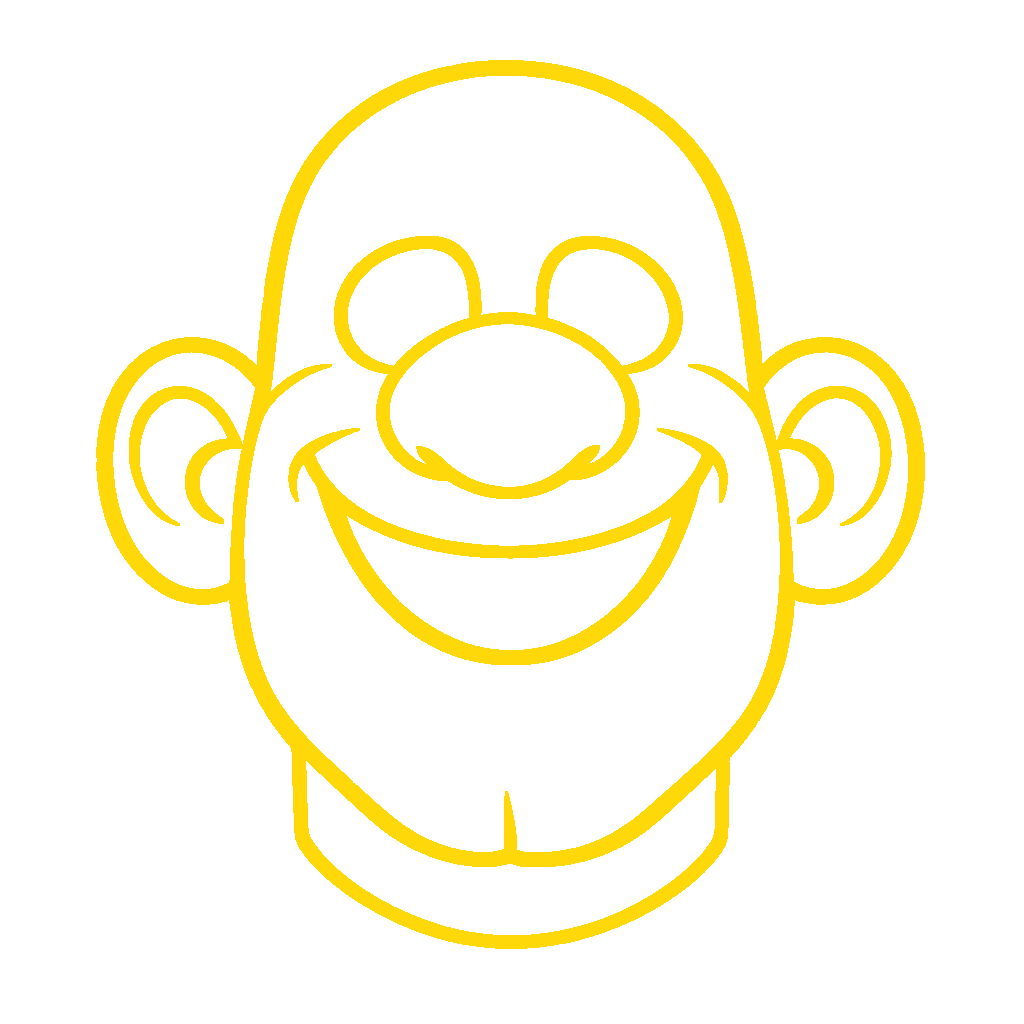
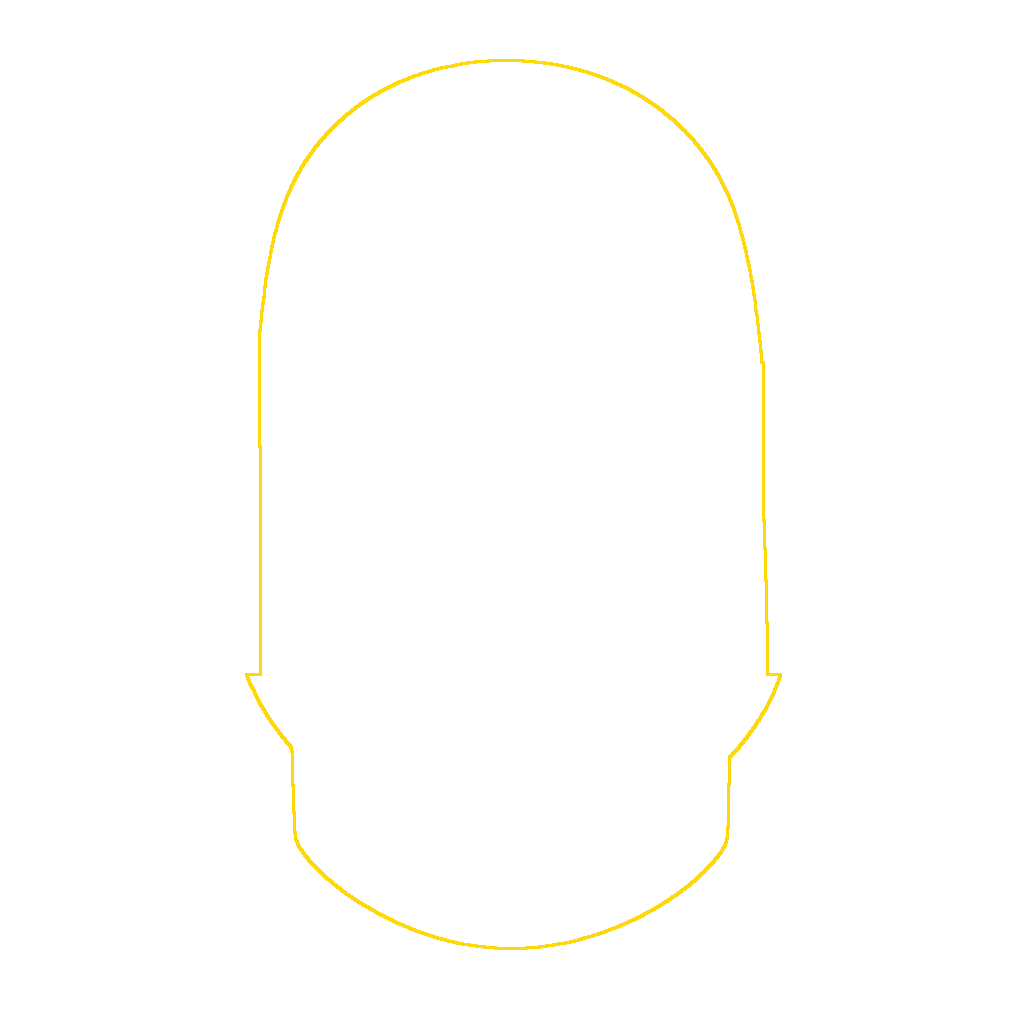
Strip ears, eyes, and nose from the yellow face guide
Keep only the outer head silhouette for selfie/upload alignment.

diff --git a/frontend/src/face-capture/FaceCaptureView.tsx b/frontend/src/face-capture/FaceCaptureView.tsx
@@ -251,7 +251,7 @@ export function FaceCaptureView({ onClose }: Props) {
         <div className="face-capture-titles">
           <h1 className="face-capture-title">Fit your face</h1>
           <p className="face-capture-sub">
-            Line up your head, eyes, and nose with the yellow wireframe — then save.
+            Line up your head inside the yellow outline — then save.
           </p>
         </div>
       </header>
@@ -316,7 +316,7 @@ export function FaceCaptureView({ onClose }: Props) {
                   onChange={(e) => setScale(Number(e.target.value))}
                 />
               </label>
-              <p className="face-capture-hint">Drag the photo to move it. Zoom until eyes and nose sit in the marks.</p>
+              <p className="face-capture-hint">Drag the photo to move it. Zoom until your head fills the outline.</p>
             </div>
           )}
 

diff --git a/frontend/src/OptionsPanel.tsx b/frontend/src/OptionsPanel.tsx
@@ -51,8 +51,8 @@ export function OptionsPanel({ open, onClose }: OptionsPanelProps) {
         <section className="options-section">
           <h3 className="options-section-title">Fit your face</h3>
           <p className="options-section-hint">
-            Take a selfie or upload a photo, then line it up with the yellow head, eyes, and nose
-            wireframe. What sits inside the outline is saved as your boxer face.
+            Take a selfie or upload a photo, then line your head up with the yellow outline.
+            What sits inside is saved as your boxer face.
           </p>
           <a className="options-link-btn" href="?builder=face">
             Open face capture

diff --git a/frontend/src/face-capture/guide.ts b/frontend/src/face-capture/guide.ts
@@ -2,10 +2,10 @@ import { assetUrl } from '../assetUrl';
 
 export type NormRect = readonly [number, number, number, number];
 
-/** Match faces/guide/face-guide.json — yellow wireframe from default boxer guide art. */
+/** Match faces/guide/face-guide.json — yellow head outline (no ears/eyes/nose). */
 export const FACE_GUIDE_SIZE = 1024;
 
-export const FACE_GUIDE_OVAL: NormRect = [0.0938, 0.0586, 0.9023, 0.9258];
+export const FACE_GUIDE_OVAL: NormRect = [0.2402, 0.0586, 0.7617, 0.9258];
 
 export const FACE_GUIDE_OUTLINE_SRC = assetUrl('faces/guide/face-guide-outline.png');
 export const FACE_GUIDE_MASK_SRC = assetUrl('faces/guide/face-guide-mask.png');

diff --git a/frontend/src/face-capture/FaceCaptureView.css b/frontend/src/face-capture/FaceCaptureView.css
@@ -131,7 +131,7 @@
   inset: 0;
   pointer-events: none;
   background: radial-gradient(
-    ellipse 68% 72% at 50% 49%,
+    ellipse 52% 68% at 50% 49%,
     transparent 48%,
     rgba(0, 0, 0, 0.5) 70%,
     rgba(0, 0, 0, 0.78) 100%

diff --git a/scripts/extract_face_guide.py b/scripts/extract_face_guide.py
@@ -2,9 +2,11 @@
 """Build the face-alignment guide from the yellow wireframe reference image.
 
 Source: file_00000000178081f48b8c802f02b638c3.png
+
+Keeps only the outer head outline — ears, eyes, and nose are removed.
 Writes:
-  - faces/guide/face-guide-outline.png  (yellow wireframe only)
-  - faces/guide/face-guide-mask.png     (head fill for cropping)
+  - faces/guide/face-guide-outline.png  (yellow head outline)
+  - faces/guide/face-guide-mask.png     (earless head fill for cropping)
   - faces/guide/face-guide.json
 """
 from __future__ import annotations
@@ -13,7 +15,7 @@ import json
 from pathlib import Path
 
 import numpy as np
-from PIL import Image, ImageDraw, ImageFilter
+from PIL import Image, ImageFilter
 
 ROOT = Path(__file__).resolve().parents[1]
 SRC = ROOT / 'file_00000000178081f48b8c802f02b638c3.png'
@@ -30,6 +32,82 @@ def white_fill(arr: np.ndarray) -> np.ndarray:
   return (a > 10) & (r > 200) & (g > 200) & (b > 200)
 
 
+def row_extents(mask: np.ndarray) -> list[tuple[int, int, int] | None]:
+  h, _ = mask.shape
+  rows: list[tuple[int, int, int] | None] = []
+  for y in range(h):
+    xs = np.where(mask[y])[0]
+    if not len(xs):
+      rows.append(None)
+    else:
+      rows.append((int(xs.min()), int(xs.max()), int(xs.max() - xs.min() + 1)))
+  return rows
+
+
+def remove_ears(sil: np.ndarray) -> np.ndarray:
+  """Clamp side flares (ears) back to the cheek line interpolated from neighbors."""
+  h, w = sil.shape
+  rows = row_extents(sil)
+  widths = np.array([r[2] if r else 0 for r in rows], dtype=np.float64)
+
+  # Face width without ears ≈ median width of upper head (before ear flare).
+  pre_ear = widths[80:340]
+  pre_ear = pre_ear[pre_ear > 50]
+  if not len(pre_ear):
+    return sil
+  base_w = float(np.median(pre_ear))
+  # Ear band: rows much wider than the upper head
+  ear_band = np.where(widths > base_w * 1.18)[0]
+  if not len(ear_band):
+    return sil
+  y0, y1 = int(ear_band.min()), int(ear_band.max())
+
+  # Cheek anchors just above / below the ear band
+  def cheek_at(y: int) -> tuple[int, int]:
+    for dy in range(0, 80):
+      for yy in (y - dy, y + dy):
+        if 0 <= yy < h and rows[yy] and rows[yy][2] <= base_w * 1.12:
+          L, R, _ = rows[yy]
+          return L, R
+    # fallback: center a base_w span
+    return int(w / 2 - base_w / 2), int(w / 2 + base_w / 2)
+
+  above = cheek_at(y0 - 1)
+  below = cheek_at(y1 + 1)
+  out = sil.copy()
+  for y in range(y0, y1 + 1):
+    t = (y - y0) / max(1, y1 - y0)
+    # ease through mid so cheeks stay roughly constant across ears
+    u = t * t * (3 - 2 * t)
+    L = int(round(above[0] * (1 - u) + below[0] * u))
+    R = int(round(above[1] * (1 - u) + below[1] * u))
+    # slight outward ease so the jaw isn't pinched
+    mid = (above[0] + below[0]) / 2
+    midR = (above[1] + below[1]) / 2
+    # Prefer the wider of lerp vs mid cheek (keeps oval shape)
+    L = min(L, int(mid))
+    R = max(R, int(midR))
+    if rows[y]:
+      curL, curR, _ = rows[y]
+      if curL < L:
+        out[y, curL:L] = False
+      if curR > R:
+        out[y, R + 1 : curR + 1] = False
+  return out
+
+
+def silhouette_edge(mask: np.ndarray) -> np.ndarray:
+  """1px ring around the filled silhouette (no interior features)."""
+  alpha = (mask.astype(np.uint8) * 255)
+  pad = np.pad(alpha, 1)
+  eroded = np.zeros_like(alpha)
+  h, w = alpha.shape
+  for y in range(h):
+    for x in range(w):
+      eroded[y, x] = 255 if pad[y : y + 3, x : x + 3].min() == 255 else 0
+  return (alpha > 0) & (eroded == 0)
+
+
 def main() -> None:
   if not SRC.exists():
     raise SystemExit(f'Missing wireframe source: {SRC}')
@@ -40,48 +118,34 @@ def main() -> None:
   yel = yellow_mask(arr)
   fill = white_fill(arr)
 
-  # Outline: keep the yellow strokes (slightly thickened for screen visibility)
+  # Full silhouette, then strip ears
+  sil = fill | yel
+  sil_img = Image.fromarray((sil.astype(np.uint8) * 255)).filter(ImageFilter.MaxFilter(5))
+  sil_img = sil_img.filter(ImageFilter.MinFilter(3))
+  sil = np.array(sil_img) > 127
+  sil = remove_ears(sil)
+
+  # Outline = outer edge only (drops eyes, nose, mouth, ear inners)
+  edge = silhouette_edge(sil)
   outline = np.zeros((h, w, 4), dtype=np.uint8)
-  outline[yel] = [255, 214, 0, 255]
+  outline[edge] = [255, 214, 0, 255]
   out_img = Image.fromarray(outline).filter(ImageFilter.MaxFilter(3))
-  # Re-apply pure yellow after thicken
   oa = np.array(out_img)
-  oa[(oa[:, :, 3] > 20)] = [255, 214, 0, 245]
+  oa[oa[:, :, 3] > 20] = [255, 214, 0, 245]
   out_img = Image.fromarray(oa)
 
-  # Mask: white fill + yellow strokes, then flood-close gaps and keep largest blob
-  mask_bin = fill | yel
-  mask_img = Image.fromarray((mask_bin.astype(np.uint8) * 255)).filter(ImageFilter.MaxFilter(5))
-  mask_img = mask_img.filter(ImageFilter.MinFilter(3))
-  mb = np.array(mask_img) > 127
+  mask_img = Image.fromarray((sil.astype(np.uint8) * 255)).filter(ImageFilter.GaussianBlur(0.8))
 
-  # Bounding box of head for guide meta
-  ys, xs = np.where(mb)
+  ys, xs = np.where(sil)
   if not len(ys):
-    raise SystemExit('No head region found in wireframe')
+    raise SystemExit('No head region found after ear removal')
   x0, x1 = int(xs.min()), int(xs.max())
   y0, y1 = int(ys.min()), int(ys.max())
 
-  # Soft elliptical crop mask from silhouette bbox (slight inset)
-  pad_x = int((x1 - x0) * 0.02)
-  pad_y = int((y1 - y0) * 0.02)
-  ellipse = Image.new('L', (w, h), 0)
-  ImageDraw.Draw(ellipse).ellipse(
-    (x0 + pad_x, y0 + pad_y, x1 - pad_x, y1 - pad_y),
-    fill=255,
-  )
-  # Prefer actual silhouette for crop — cleaner ears/neck
-  sil = Image.fromarray((mb.astype(np.uint8) * 255))
-  # Combine: silhouette, lightly feathered
-  sil = sil.filter(ImageFilter.GaussianBlur(0.8))
-
   OUT.mkdir(parents=True, exist_ok=True)
   out_img.save(OUT / 'face-guide-outline.png')
-  sil.save(OUT / 'face-guide-mask.png')
-
-  # Also keep a copy of the source in public for reference
-  pub_src = ROOT / 'frontend/public/faces/guide/wireframe-source.png'
-  img.save(pub_src)
+  mask_img.save(OUT / 'face-guide-mask.png')
+  img.save(OUT / 'wireframe-source.png')
 
   meta = {
     'source': SRC.name,
@@ -94,10 +158,11 @@ def main() -> None:
     ],
     'outline': 'faces/guide/face-guide-outline.png',
     'mask': 'faces/guide/face-guide-mask.png',
+    'notes': 'Outer head outline only — ears, eyes, and nose removed from wireframe',
   }
   (OUT / 'face-guide.json').write_text(json.dumps(meta, indent=2) + '\n')
-  print(f'Wrote yellow wireframe guide → {OUT}')
-  print(f'  yellow px={int(yel.sum())} fill px={int(fill.sum())} oval={meta["faceOval"]}')
+  print(f'Wrote earless head outline → {OUT}')
+  print(f'  edge px={int(edge.sum())} oval={meta["faceOval"]}')
 
 
 if __name__ == '__main__':
